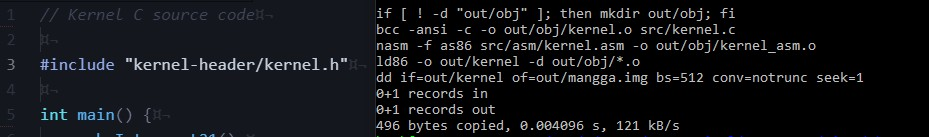
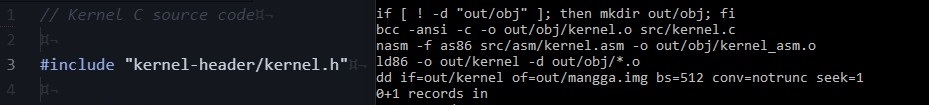
M1 - 8.1 Penambahan boolean
Penambahan implementasi boolean pada tahap pembersihan kode

Other
- Fix typo pada header link penjelasan kernel.asm
- Penambahan workaround untuk permasalahan overflow bochs
- Pemotongan screenshot bcc-include untuk memperjelas point yang dimaksud

diff --git a/src/kernel.c b/src/kernel.c
@@ -1,11 +1,12 @@
 // Kernel C source code
 
 #include "kernel-header/kernel.h"
+#include "std/header/bool.h"
+
 
 int main() {
     makeInterrupt21();
-    // Digunakan agar kernel tidak restarting
-    while (1);
+    while (true);
 }
 
 void handleInterrupt21(int AX, int BX, int CX, int DX) {

diff --git a/src/std/header/bool.h b/src/std/header/bool.h
@@ -1,0 +1,10 @@
+// Implementasi boolean
+
+#ifndef _BOOL_H
+#define _BOOL_H
+
+#define bool char
+#define true 1
+#define false 0
+
+#endif

diff --git a/Pengerjaan-Milestone-1.md b/Pengerjaan-Milestone-1.md
@@ -380,7 +380,7 @@ input dan menuliskan ke layar seperti screenshot berikut
 Setelah implementasi `clear()`, `printString()`, dan `readString()` berhasil,
 **spesifikasi wajib milestone 1 telah selesai**. Untuk spesifikasi nomor 6, cara kerja `interrupt()` dan cara kerja kode
  `kernel.asm` dapat dijelaskan sendiri dengan mengikuti arahan spesifikasi atau mengecek bagian
-[tambahan penjelasan kernel.asm](#3-penjelasan-assembly-kernelasm)]. Bagian ini hanya membersihkan kode yang ada pada
+[tambahan penjelasan kernel.asm](#3-penjelasan-assembly-kernelasm). Bagian ini hanya membersihkan kode yang ada pada
 `kernel.c`.
 
 ---
@@ -402,7 +402,28 @@ Catatan, jika mengalami permasalahan setelah melakukan pemindahan deklarasi, pas
 
 ---
 
-Setelah pemindahan tersebut tes lagi dengan `make insertbasekernel` dan jalankan `./run.sh`, jika berhasil maka sistem
+Buka file file `kernel.h` yang sebelumnya telah dibuat pada folder `kernel-header` dan paste deklarasi kode sebelumnya
+pada file tersebut.
+
+![Cleanup, kernel.h](other/markdown-img/milestone-1/cleanup-inside-kernel-header.jpg)
+
+---
+
+Buatlah sebuah folder baru pada `src` bernama `std`, didalam folder tersebut buatlah folder lagi bernama `header`.
+Pada folder header buatlah sebuah file baru bernama `bool.h`. Header ini akan digunakan sebagai implementasi sederhana tipe
+data boolean yang digunakan untuk memperjelas kode.
+
+![Cleanup, boolean](other/markdown-img/milestone-1/cleanup-bool.jpg)
+
+---
+
+Tambahkan direktif `#include "std/header/bool.h"` pada `kernel.c` dan ganti angka `1` pada kondisi loop ke `true`.
+
+![Cleanup, kernel boolean](other/markdown-img/milestone-1/cleanup-kernel-bool.jpg)
+
+---
+
+Setelah pemindahan diatas, tes lagi dengan `make insertbasekernel` dan jalankan `./run.sh`, jika berhasil maka sistem
 operasi berhasil dijalankan oleh `bochs` dan tidak melakukan apapun setelah booting seperti gambar
 
 ![Cleanup, bochs](other/markdown-img/milestone-1/bochs-header.jpg)

diff --git a/README.md b/README.md
@@ -22,8 +22,17 @@ output file dan menjadikan output sebagai [MSDOS COM executable](https://en.wiki
 - Konsekuensi dari flag `-d` atas adalah **urutan definisi fungsi berpengaruh terhadap program**. Pastikan definisi fungsi
 pertama kali merupakan `int main()`. Deklarasikan fungsi selain `main()` pada header atau bagian atas program jika ingin
 memanggil pada main.
-- Preprosesor `bcc` terkadang melakukan keanehan jika terdapat komentar dan `#include` bersebelahan baris. Jika mengalami
-permasalahan tersebut, tambahkan **newline** diantara komentar dan `#include`.
+- Jika mengalami permasalahan `*** buffer overflow detected ***` pada `bochs` ketika menjalankan sistem operasi, salah
+satu workaround yang dapat dicoba adalah menambahkan `sudo` pada utility `bochs` seperti `sudo bochs -f if2230.config`.
+
+![Bochs failure](other/markdown-img/milestone-1/bochs-overflow.jpg)
+
+Permasalahan buffer overflow ketika menjalankan `bochs`
+
+<br/>
+
+- Preprosesor `bcc` terkadang melakukan keanehan jika terdapat komentar dan direktif `#` bersebelahan baris. Jika mengalami
+permasalahan tersebut, tambahkan **newline** diantara komentar dan direktif `#`.
 
 ![Cleanup, kernel.c bcc failure](other/markdown-img/milestone-1/bcc-include-fail.jpg)
 
